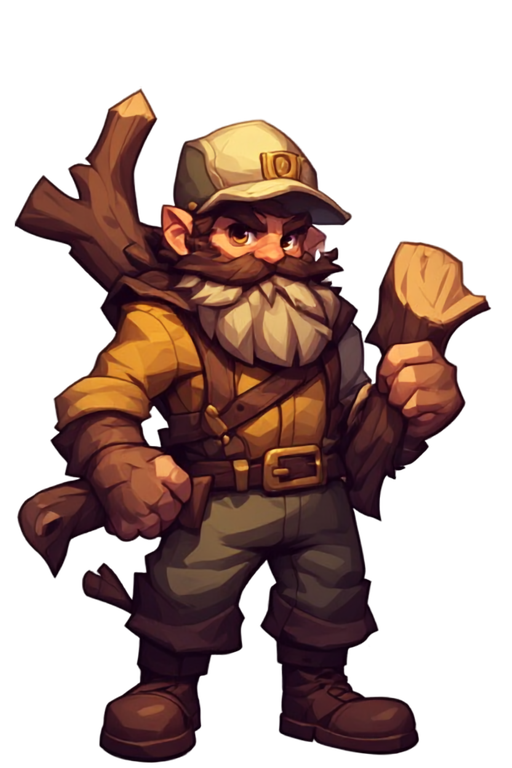
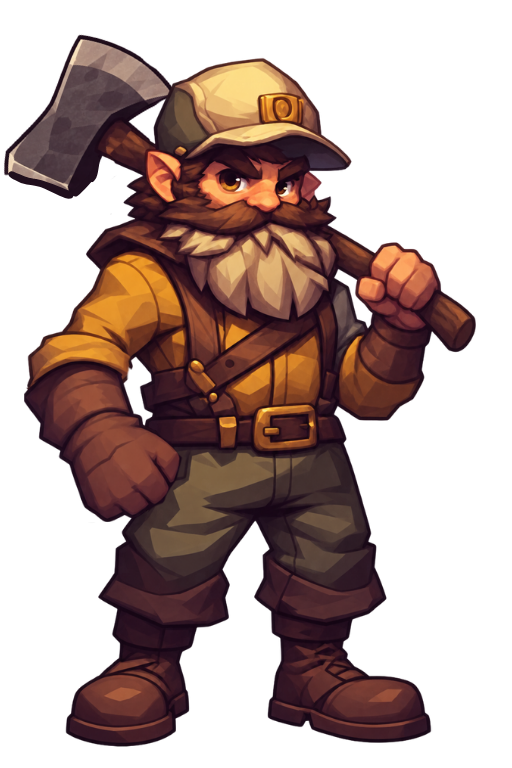
placeholder art

diff --git a/app.js b/app.js
@@ -523,36 +523,40 @@
   }
 
   function villageInteriorsMarkup() {
-    const interior = ({ key, title, subtitle, role, note, icon, decor }) => `
-      <div class="world-view village-interior ${key}-interior" data-view="${key}">
-        <div class="interior-backdrop" aria-hidden="true"></div>
-        <div class="interior-floor" aria-hidden="true"></div>
-        <div class="interior-beams" aria-hidden="true"></div>
-        <div class="interior-decor ${decor}" aria-hidden="true">
-          <span class="decor-main"></span><span class="decor-side"></span><span class="decor-small"></span>
+    const npcArtwork = {
+      blacksmith: { file: 'blacksmith.png', className: 'blacksmith-character-image' },
+      'strange-shack': { file: 'wizard.png', className: 'wizard-character-image' },
+      farmer: { file: 'farmer.png', className: 'farmer-character-image' },
+      'foragers-hut': { file: 'herbalist.png', className: 'herbalist-character-image' },
+    };
+
+    const interior = ({ key, title, subtitle, role, note, decor }) => {
+      const artwork = npcArtwork[key];
+
+      return `
+        <div class="world-view village-interior ${key}-interior" data-view="${key}">
+          <div class="interior-backdrop" aria-hidden="true"></div>
+          <div class="interior-floor" aria-hidden="true"></div>
+          <div class="interior-beams" aria-hidden="true"></div>
+          <div class="interior-decor ${decor}" aria-hidden="true">
+            <span class="decor-main"></span><span class="decor-side"></span><span class="decor-small"></span>
+          </div>
+          <button class="mill-back interior-back" type="button" data-location="town">‹ Lakeshore Village</button>
+          <div class="interior-title"><span>Lakeshore Village</span><strong>${title}</strong><small>${subtitle}</small></div>
+          <button class="village-npc npc-${key}" type="button" data-building-npc data-npc-title="${role}" data-npc-note="${note}">
+            <span class="village-npc-shadow" aria-hidden="true"></span>
+            <img class="village-npc-character-image ${artwork.className}" src="assets/images/npcs/${artwork.file}" alt="" aria-hidden="true">
+            <span class="village-npc-label"><strong>${role}</strong><small>Click to talk</small></span>
+          </button>
         </div>
-        <button class="mill-back interior-back" type="button" data-location="town">‹ Lakeshore Village</button>
-        <div class="interior-title"><span>Lakeshore Village</span><strong>${title}</strong><small>${subtitle}</small></div>
-        <button class="village-npc npc-${key}" type="button" data-building-npc data-npc-title="${role}" data-npc-note="${note}">
-          <span class="village-npc-shadow" aria-hidden="true"></span>
-          ${key === 'strange-shack'
-            ? '<img class="village-npc-character-image wizard-character-image" src="assets/images/npcs/wizard.png" alt="" aria-hidden="true">'
-            : `<span class="village-npc-body" aria-hidden="true">
-                <span class="village-npc-head"><i></i></span>
-                <span class="village-npc-torso"></span>
-                <span class="village-npc-arm arm-a"></span><span class="village-npc-arm arm-b"></span>
-                <span class="village-npc-leg leg-a"></span><span class="village-npc-leg leg-b"></span>
-                <span class="village-npc-prop">${icon}</span>
-              </span>`}
-          <span class="village-npc-label"><strong>${role}</strong><small>Click to talk</small></span>
-        </button>
-      </div>`;
+      `;
+    };
 
     return [
-      interior({ key:'blacksmith', title:'Blacksmith', subtitle:'Forge, metalwork & repairs', role:'Blacksmith', note:'The forge is hot, but blacksmith services are still being built.', icon:'⚒', decor:'forge-decor' }),
-      interior({ key:'strange-shack', title:'Strange Shack', subtitle:'Arcane clutter & stranger business', role:'Wizard', note:'The wizard watches you carefully. Arcane services are coming later.', icon:'✦', decor:'wizard-decor' }),
-      interior({ key:'farmer', title:'Farmer', subtitle:'Crops, produce & farm goods', role:'Farmer', note:'The farmer is arranging fresh produce. Trading will be added later.', icon:'♨', decor:'farm-decor' }),
-      interior({ key:'foragers-hut', title:"Forager's Hut", subtitle:'Wild herbs, fungi & gathered goods', role:'Forager', note:'The forager is sorting today\'s finds. Trading will be added later.', icon:'❧', decor:'forager-decor' }),
+      interior({ key:'blacksmith', title:'Blacksmith', subtitle:'Forge, metalwork & repairs', role:'Blacksmith', note:'The forge is hot, but blacksmith services are still being built.', decor:'forge-decor' }),
+      interior({ key:'strange-shack', title:'Strange Shack', subtitle:'Arcane clutter & stranger business', role:'Wizard', note:'The wizard watches you carefully. Arcane services are coming later.', decor:'wizard-decor' }),
+      interior({ key:'farmer', title:'Farmer', subtitle:'Crops, produce & farm goods', role:'Farmer', note:'The farmer is arranging fresh produce. Trading will be added later.', decor:'farm-decor' }),
+      interior({ key:'foragers-hut', title:"Forager's Hut", subtitle:'Wild herbs, fungi & gathered goods', role:'Forager', note:'The forager is sorting today\'s finds. Trading will be added later.', decor:'forager-decor' }),
     ].join('');
   }
 

diff --git a/styles.css b/styles.css
@@ -2290,6 +2290,12 @@ body.is-dragging-log .sawmill-input { color:#d8efae; border-color:#b8d77d; backg
 
 .lumberjack-character-image {
   height: 455px;
+  bottom: 42px;
+}
+
+.blacksmith-character-image {
+  height: 425px;
+  bottom: 42px;
 }
 
 .wizard-character-image {
@@ -2297,16 +2303,32 @@ body.is-dragging-log .sawmill-input { color:#d8efae; border-color:#b8d77d; backg
   bottom: 42px;
 }
 
-.npc-strange-shack .village-npc-label {
+.farmer-character-image {
+  height: 395px;
+  bottom: 42px;
+}
+
+.herbalist-character-image {
+  height: 400px;
+  bottom: 42px;
+}
+
+.village-npc-label {
   z-index: 4;
 }
 
 @media (max-width: 1050px) {
   .lumberjack-character-image { height: 420px; }
+  .blacksmith-character-image { height: 390px; }
   .wizard-character-image { height: 370px; }
+  .farmer-character-image { height: 365px; }
+  .herbalist-character-image { height: 370px; }
 }
 
 @media (max-width: 760px) {
   .lumberjack-character-image { height: 385px; }
+  .blacksmith-character-image { height: 350px; }
   .wizard-character-image { height: 330px; }
+  .farmer-character-image { height: 325px; }
+  .herbalist-character-image { height: 330px; }
 }
